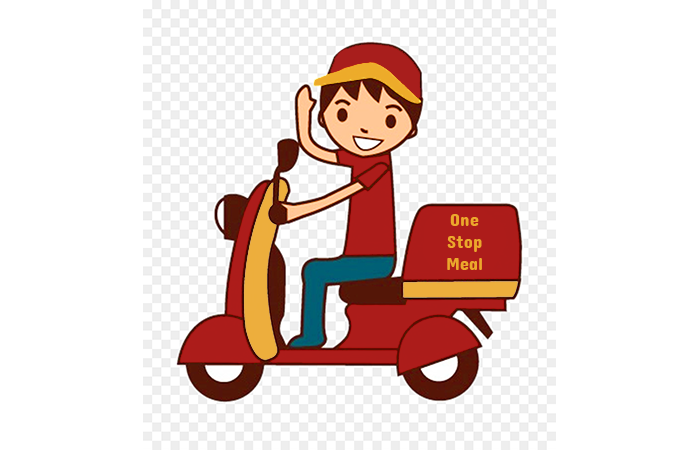
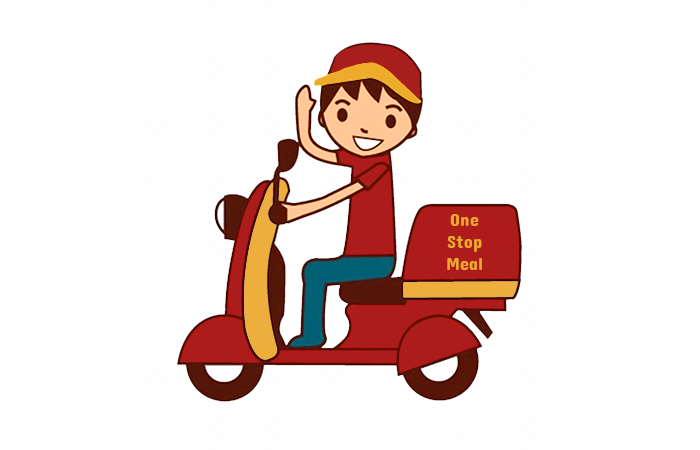
delivery pic

diff --git a/startbootstrap-modern-business-gh-pages/index.html b/startbootstrap-modern-business-gh-pages/index.html
@@ -237,7 +237,7 @@
         <p>Every order gets free immediate delivery! Our delivery boys pack your meals fresh and hot, bringing them just in time. Guaranteed 20 minutes delivery or we pay for your dinner!</p>
       </div>
       <div class="col-lg-6">
-        <img class="img-fluid rounded" src="images/home_photo7.jpg" alt="">
+        <img class="img-fluid rounded" src="/pics/delivery.png" alt="">
       </div>
     </div>
     <!-- /.row -->
